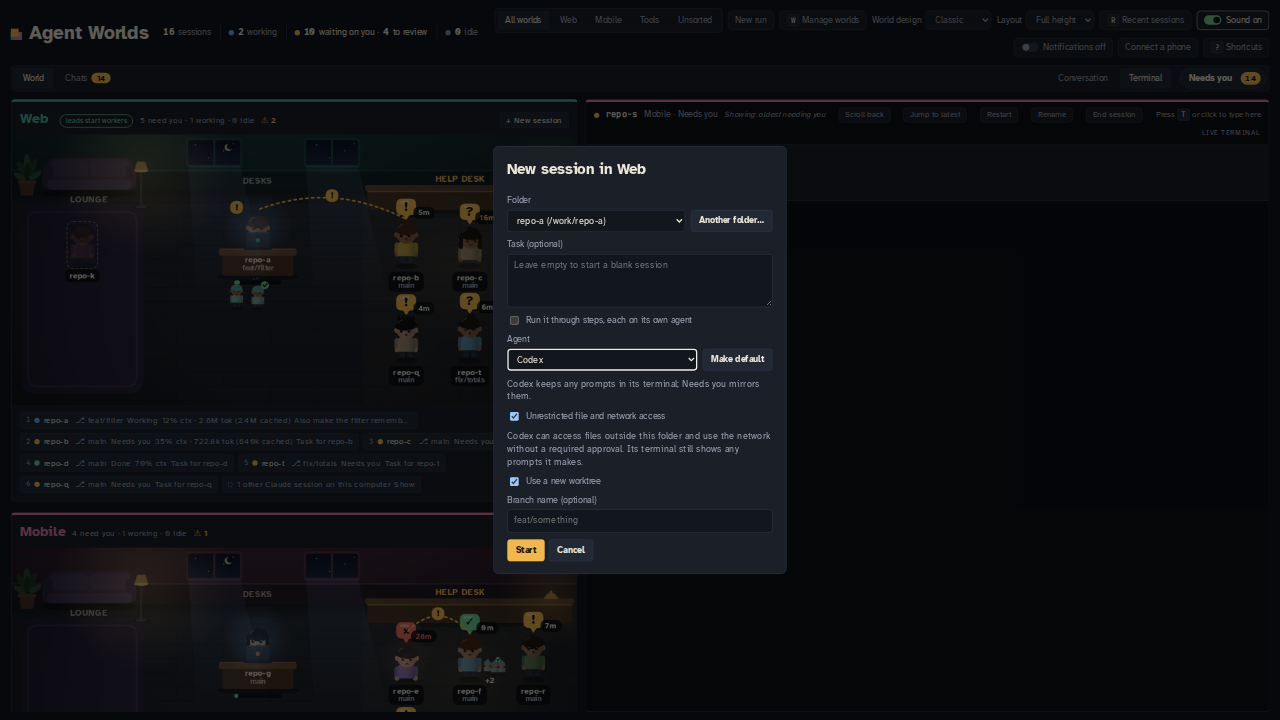
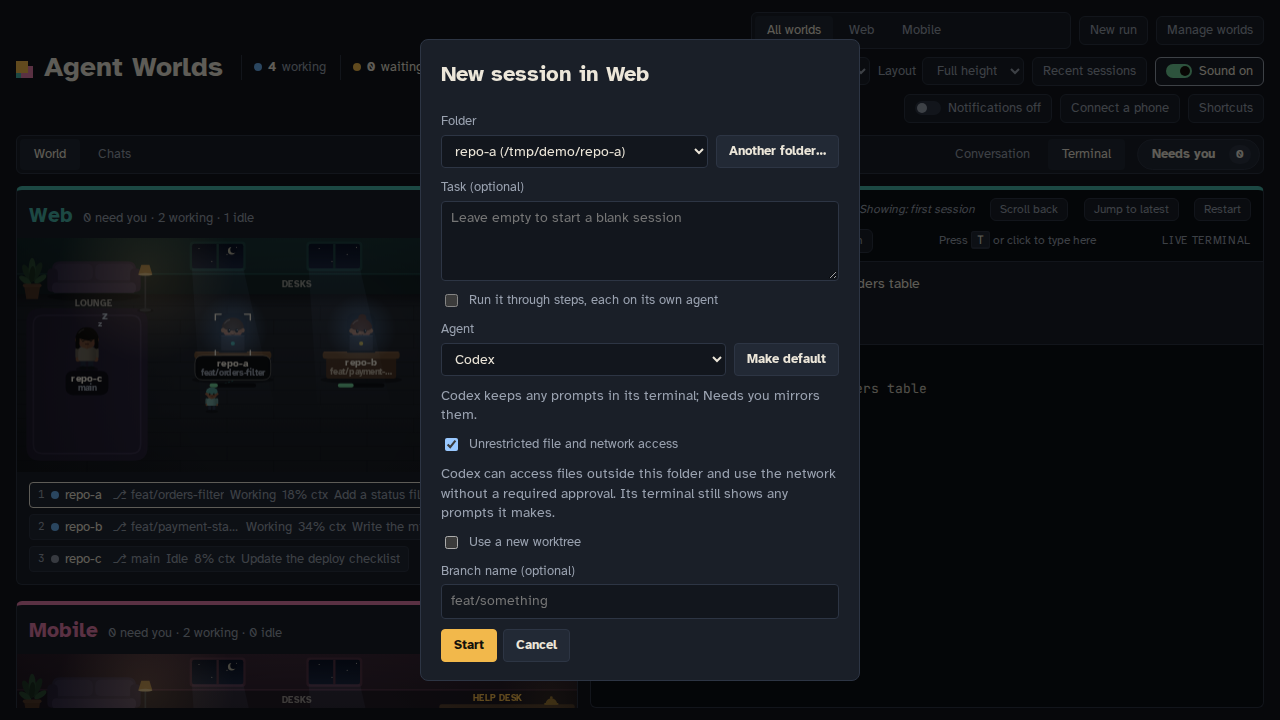
fix(codex): keep bulk recovery sandboxed when scope is unknown

diff --git a/server/test/recovery.test.ts b/server/test/recovery.test.ts
@@ -30,6 +30,25 @@ test('starting placeholders are never offered as recoverable conversations', () 
   assert.deepEqual(recovery.list(), []);
 });
 
+test('Restore all keeps older Codex sessions in the workspace sandbox', async () => {
+  const home = tmp(), repo = tmp();
+  new Recovery(join(home, 'recovery.json')).upsert({ id: 'session-codex', agent: 'codex', cwd: repo, task: null, lastPrompt: null, updatedAt: 1 });
+  const launched: any[] = [];
+  const app = startServer({ ...parseConfig({}), port: 0 }, TOKEN, {
+    home, procRoot: join(tmp(), 'missing'), installed: () => true,
+    deps: { repoInfo: async (cwd: string) => ({ repo: cwd, branch: 'main', worktree: false, top: cwd }), branchOf: async () => 'main', tmuxSessionOf: async () => 'aw-codex' },
+    createSession: async (o: any) => { launched.push(o); return { tmuxSession: 'aw-codex', dir: o.repo, branch: null, pane: '%2' }; },
+  });
+  await app.listen();
+  try {
+    const base = `http://127.0.0.1:${(app.server.address() as { port: number }).port}`;
+    const response = await fetch(`${base}/api/sessions/resume-all`, { method: 'POST', headers: { 'x-aw-token': TOKEN }, body: '{}' });
+    assert.equal(response.status, 200);
+    assert.deepEqual((await response.json() as any).started, ['session-codex']);
+    assert.equal(launched[0].codexUnrestricted, false);
+  } finally { await app.close(); }
+});
+
 test('after a server or computer stop, Resume all relaunches every remembered conversation', async () => {
   const home = tmp(), repo = tmp(), procRoot = join(tmp(), 'missing');
   const cfg = { ...parseConfig({}), port: 0 };

diff --git a/server/src/server.ts b/server/src/server.ts
@@ -752,7 +752,7 @@ export function startServer(cfg: Config, token: string, opts: Opts = {}) {
         if (resuming.has(s.id)) { failed.push({ id: s.id, error: 'already being restored' }); continue; }
         resuming.set(s.id, null);
         try {
-          const r = await createSession({ repo: s.cwd, worktree: false, resume: s.id, agent: s.agent, claudeBin: cfg.claudeBin, home, prefix: opts.tmuxPrefix, spawnDirect });
+          const r = await createSession({ repo: s.cwd, worktree: false, resume: s.id, agent: s.agent, ...(s.agent === 'codex' ? { codexUnrestricted: false } : {}), claudeBin: cfg.claudeBin, home, prefix: opts.tmuxPrefix, spawnDirect });
           resuming.set(s.id, r.tmuxSession);
           await store.addStarting({ tmuxSession: r.tmuxSession, pane: r.pane ?? null, direct: r.direct ? r.tmuxSession : null, dir: r.dir, task: s.lastPrompt ?? s.task, agent: s.agent, resuming: true });
           started.push(s.id);

diff --git a/README.md b/README.md
@@ -242,7 +242,9 @@ own session log instead: a failed turn moves to the Help desk with its error a f
 Codex sessions start with unrestricted file and network access and on-request approvals. In New
 session or Recent sessions, uncheck **Unrestricted file and network access** to use a workspace
 sandbox instead. A run offers the same choice for its Codex steps and remembers it across the
-run. Workers started by other agents stay sandboxed. Unrestricted access removes the enforced
+run. Bulk **Resume all** uses the workspace sandbox for older Codex conversations because their
+previous access scope was not recorded; use Recent sessions to choose unrestricted access. Workers
+started by other agents stay sandboxed. Unrestricted access removes the enforced
 file and network boundary; Codex may still ask in its terminal, and Agent Worlds mirrors those
 requests under **Needs you**.
 
